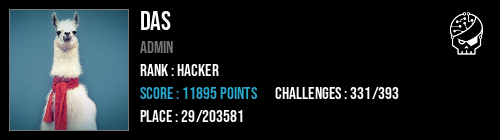
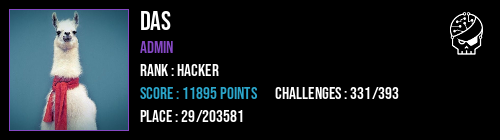
les admins en violet :)

Changed region(s): [[0.27, 0.2857, 0.36, 0.4], [0.0, 0.9143, 0.27, 0.9429], [0.0, 0.0571, 0.27, 0.0857]]

diff --git a/badge.php b/badge.php
@@ -50,6 +50,7 @@ class Theme
     public const white = [255, 255, 255];
     public const red = [222, 43, 15];
     public const green = [0, 204, 0];
+    public const purple = [133, 72 , 196];
     public const grey = [118, 118, 118];
 
     /**
@@ -84,7 +85,7 @@ class Theme
         $this->status_color = ['Visitor' => self::green,
             'Redactor' => self::orange,
             'Premium' => self::red,
-            'Admin' => self::grey];
+            'Admin' => self::purple];
         $this->rm_logo = 'assets/skull-black.png';
     }
 
@@ -99,7 +100,7 @@ class Theme
         $this->status_color = ['Visitor' => self::green,
             'Redactor' => self::orange,
             'Premium' => self::red,
-            'Admin' => self::grey];
+            'Admin' => self::purple];
         $this->rm_logo = 'assets/skull-white.png';
     }
 }
